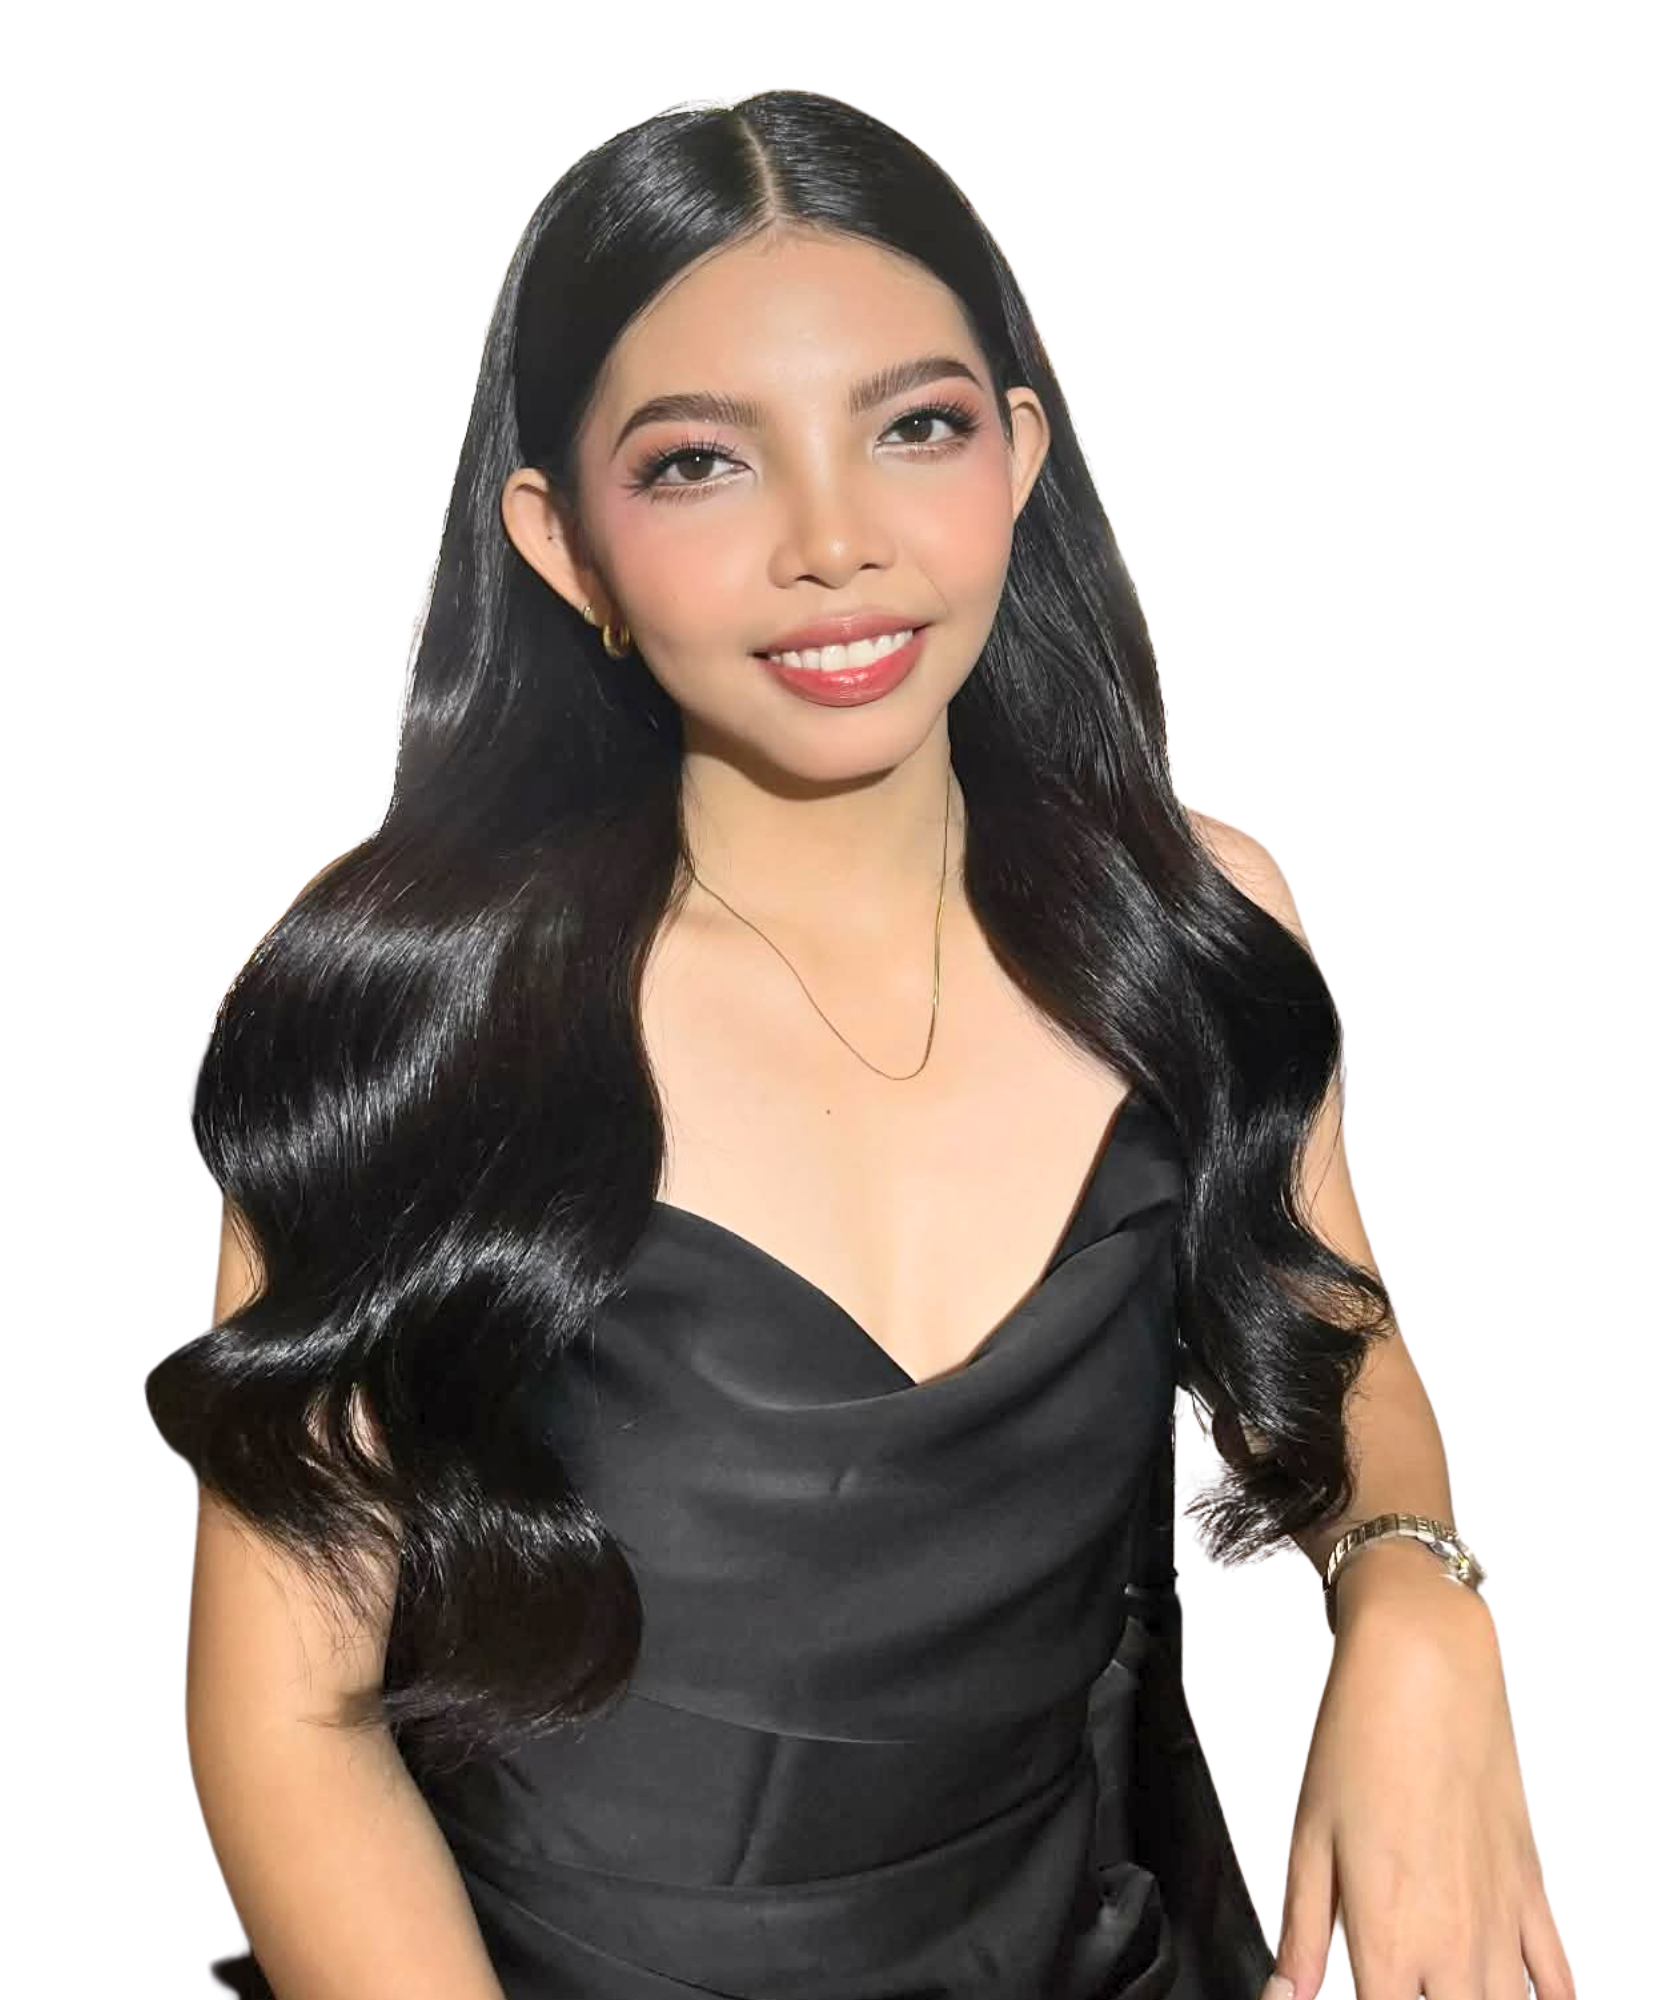
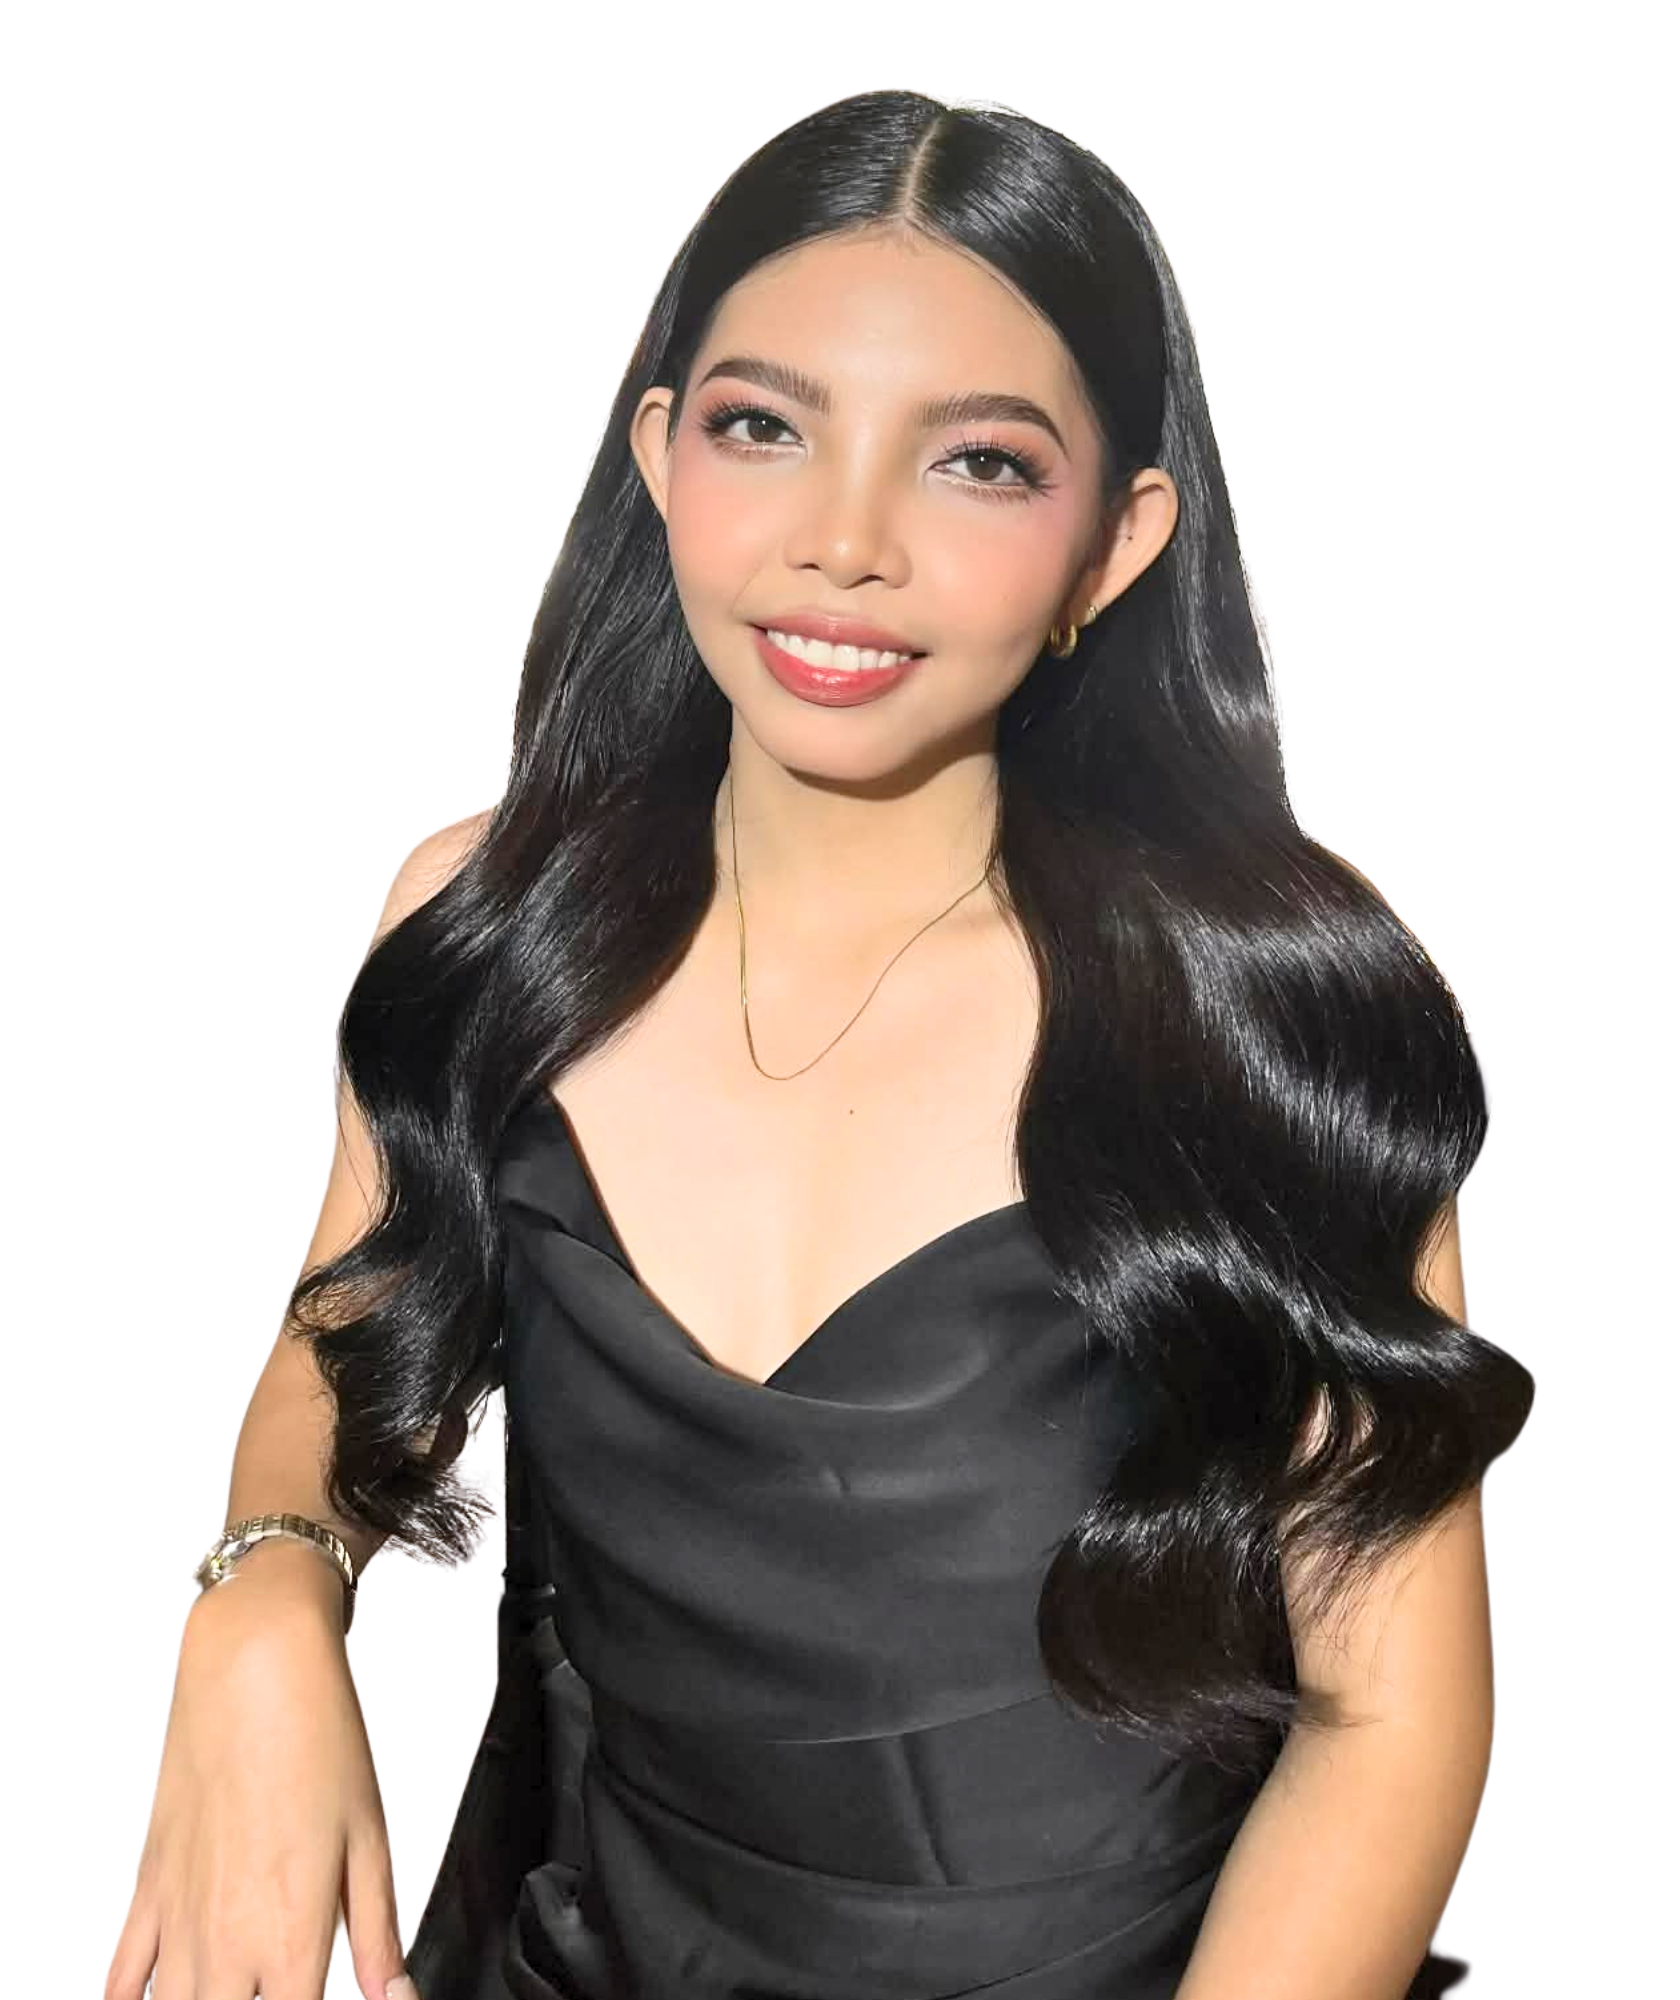
removed white-spaces

diff --git a/src/components/About.css b/src/components/About.css
@@ -3,50 +3,69 @@
   display: grid;
   grid-template-columns: 1fr 0.7fr;
   gap: 3rem;
-  padding: 0 4rem 5rem 6rem;
+  padding: 0 4rem 2rem 6rem;
   min-height: 700px;
   align-items: center;
+  isolation: isolate;
 }
 
-.about-glow {
-  background: var(--red-dark);
-  opacity: 0.95;
+/* =========================
+   BACKGROUND GLOW LAYER
+========================= */
+
+/* Left glow */
+.about::before {
+  content: "";
   position: absolute;
+  width: 360px;
+  height: 500px;
+  left: -18rem;
+  top: -15rem;
+
+  background: var(--red-dark);
+  opacity: 0.8;
+  filter: blur(130px);
+  border-radius: 50%;
+
   z-index: 0;
-  mix-blend-mode: screen;
+  pointer-events: none;
 }
 
-/* Right: behind the portrait */
-.about-glow-portrait {
+/* Right glow */
+.about::after {
+  content: "";
+  position: absolute;
   width: 540px;
   height: 310px;
   right: 2%;
   top: 6%;
+
+  background: var(--red-dark);
+  opacity: 0.85;
   filter: blur(150px);
+  border-radius: 50%;
+
+  z-index: 0;
+  pointer-events: none;
 }
+
+/* =========================
+   CONTENT
+========================= */
 
 .about-content {
   position: relative;
   z-index: 2;
   max-width: 669px;
-  isolation: isolate;
-}
-
-.about-glow-name {
-  width: 360px;
-  height: 400px;
-  left: -25rem;
-  top: -15rem;
-  filter: blur(130px);
 }
 
 .about-location {
   margin-bottom: 0.5rem;
-  font-size: clamp(1rem, 2vw, 1.5rem) !important; 
+  font-size: clamp(1rem, 2vw, 1.5rem) !important;
 }
 
 .about-heading {
-  font-size: clamp(2.5rem, 6vw, 6rem);
+  font-size: clamp(3rem, 7vw, 6rem) !important;
   margin-bottom: 2.5rem;
 }
 
@@ -56,7 +75,7 @@
 }
 
 .about-text {
-  font-size: clamp(0.93rem, 1.5vw, 0.95rem);
+  font-size: clamp(0.93rem, 1.5vw, 0.8rem);
   line-height: 1.375;
   margin-bottom: 1.25rem;
 }
@@ -75,29 +94,40 @@
   opacity: 0.75;
 }
 
+/* =========================
+   PORTRAIT
+========================= */
+
 .about-portrait-wrap {
   position: relative;
   z-index: 2;
+
   justify-self: end;
   width: 100%;
   max-width: min(859px, 100%);
+
   overflow: hidden;
   pointer-events: none;
   background: transparent;
-  transform: scaleX(-1);
 }
 
 .about-portrait {
   display: block;
-  width: 100%;
+  width: 108%;
+  max-width: none;
   height: auto;
-  max-width: 859px;
+
   object-fit: contain;
   object-position: center top;
   image-rendering: auto;
+
   mask-image: linear-gradient(to bottom, #000 44%, transparent 100%);
   -webkit-mask-image: linear-gradient(to bottom, #000 44%, transparent 100%);
 }
+
+/* =========================
+   RESPONSIVE
+========================= */
 
 @media (max-width: 1024px) {
   .about {
@@ -107,22 +137,20 @@
 
   .about-portrait-wrap {
     order: -1;
-  }
-
-  .about-portrait-wrap {
     justify-self: center;
     max-width: 480px;
   }
 
-  .about-glow-name {
+  /* Adjust left glow */
+  .about::before {
     left: -1rem;
     top: 3rem;
     width: 260px;
     height: 220px;
-    z-index: 0;
   }
 
-  .about-glow-portrait {
+  /* Adjust right glow */
+  .about::after {
     right: 50%;
     top: 0;
     transform: translateX(50%);

diff --git a/src/components/Hero.css b/src/components/Hero.css
@@ -12,7 +12,7 @@
   height: auto;
   min-height: 0;
   max-height: none;
-  padding-bottom: clamp(1.5rem, 4vh, 0);
+  padding-bottom: clamp(0px, 2vh, 1rem); 
   /* border: 1px solid rgba(255, 255, 255, 0.2); */
 }
 
@@ -155,6 +155,9 @@
   padding: 0 var(--hero-pad-x);
   pointer-events: none;
   transform: translateY(-7.5rem);
+  /* REDUCED SPACE FIX: Cancels out the blank physical room 
+     left behind by the negative visual transform */
+  margin-bottom: -7.5rem; 
 }
 
 .hero-role {
@@ -217,12 +220,14 @@
 
   .hero-stage {
     padding-top: clamp(1.5rem, 5vw, 4.5rem);
-    padding-bottom: 0.5rem;
+    padding-bottom: 0px; /* REDUCED SPACE FIX: Strip out staging padding */
   }
 
   .hero-roles {
     margin-top: 0;
     transform: translateY(clamp(-10rem, -8vw, -7.5rem));
+    /* REDUCED SPACE FIX: Matches the responsive dynamic shift on desktop */
+    margin-bottom: calc(-1 * clamp(7.5rem, 8vw, 10rem)); 
   }
 }
 
@@ -236,7 +241,7 @@
 /* ── Mobile ── */
 @media (max-width: 768px) {
   .hero {
-    padding-bottom: 1.25rem;
+    padding-bottom: 0px; /* REDUCED SPACE FIX: Remove bottom padding blocks */
   }
 
   .hero-location {
@@ -279,6 +284,8 @@
 
   .hero-roles {
     transform: translateY(-4.5rem);
+    /* REDUCED SPACE FIX: Pulls layout bounding box back up on mobile screens */
+    margin-bottom: -4.5rem; 
   }
 }
 
@@ -302,5 +309,7 @@
 
   .hero-roles {
     transform: translateY(-3.75rem);
+    /* REDUCED SPACE FIX: Final layout sync for very tight mobile displays */
+    margin-bottom: -3.75rem; 
   }
-}
+} 
